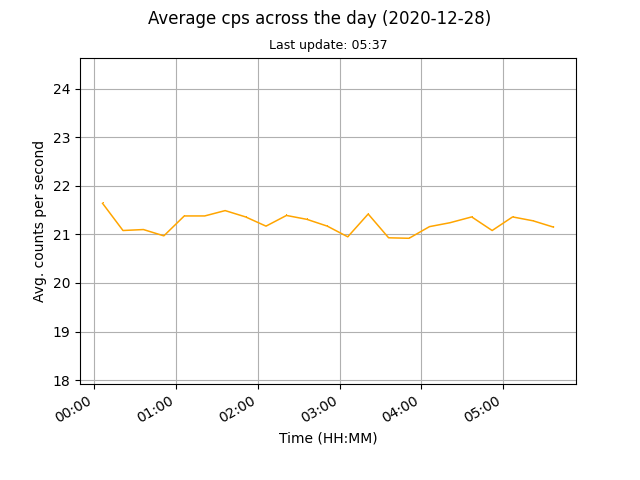
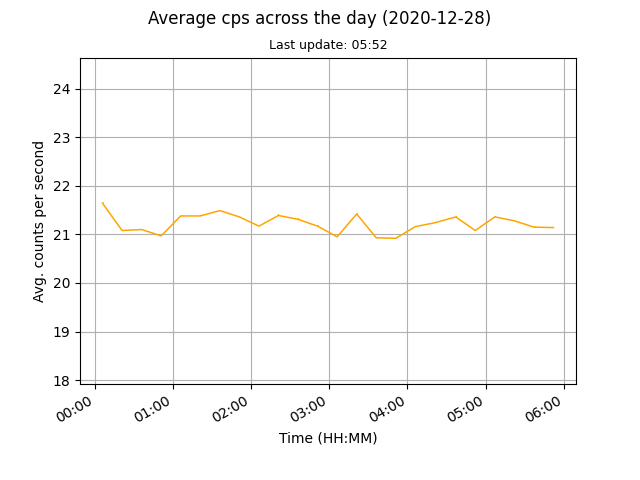
auto data update

diff --git a/docs/index.html b/docs/index.html
@@ -45,8 +45,8 @@
 	
 	<br>
 	
-	<p>Current counts per second (cps): 21.15</p>
-	<p>Last update: 2020-12-28, 05:37</p>
+	<p>Current counts per second (cps): 21.14</p>
+	<p>Last update: 2020-12-28, 05:52</p>
 
 	<p><a href="images/monthly.png"><img src="images/monthly.png" alt="Mothly avg cps data"></a><a href="images/daily.png"><img src="images/daily.png" alt="Daily avg cps data"></a></p>
 	
